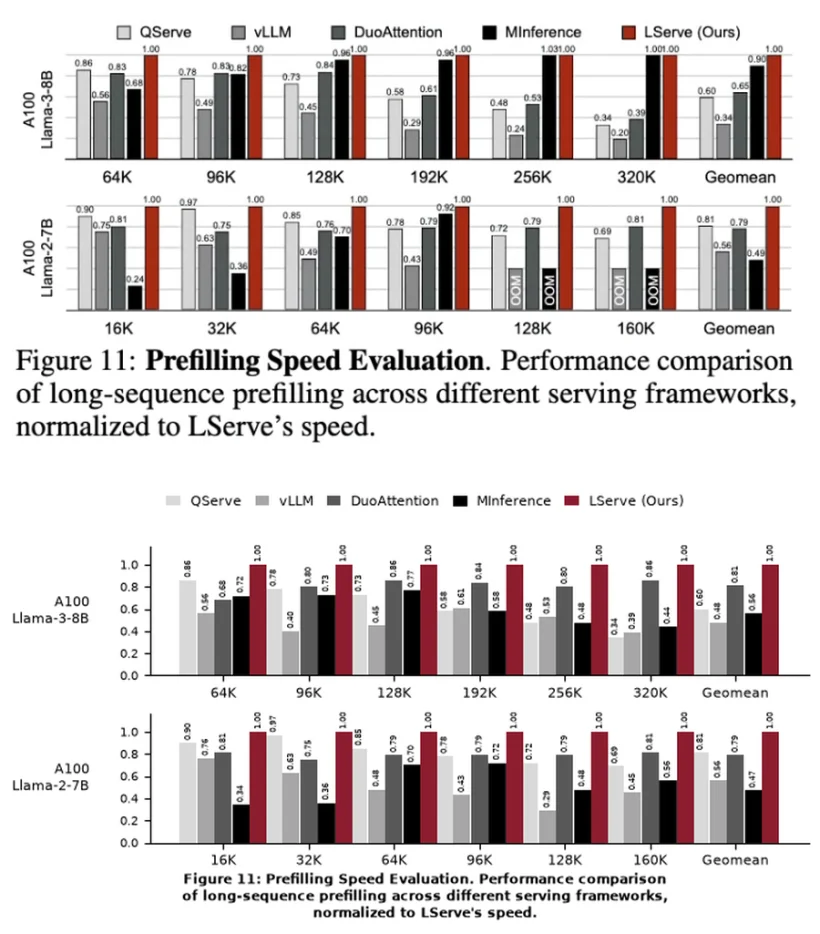
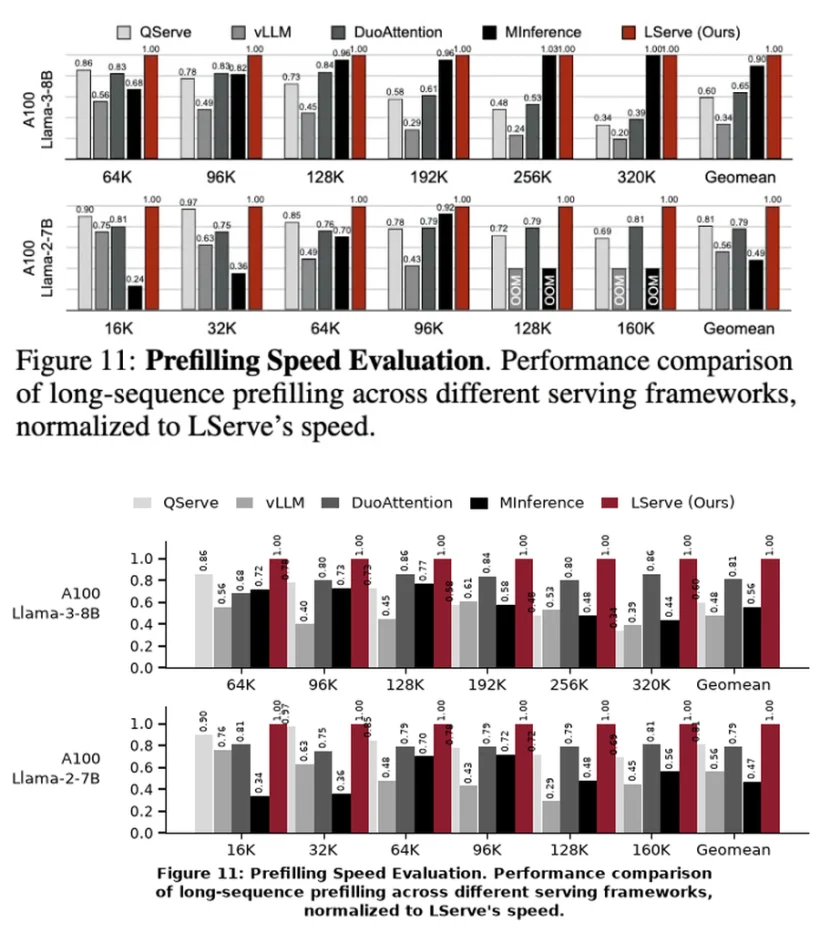
improve(replicas): 第五十三轮 —— 08 柱图加宽 + 布局修正
墨迹 91% → 92%（一度因 hspace 过大掉到 82%，收紧回 0.30 后恢复）

- 柱宽 0.205 → 0.225、比例 0.96 → 0.98
- MInference 柱边框 0.5 → 0.9
- 数值标签 4.9 → 6.0、x 刻度 8 → 9、y 刻度 7 → 8.5
- y 轴标签 8 → 9.5、图例 8 → 9.5、caption 8 → 9.5
- hspace 0.30、bottom 0.21 保证 x 标签不压柱子
- figsize 3.54 → 3.64 保持 AR 1.80

平均墨迹 96%，8/10 在 ±15% 内

diff --git a/tools/figlab/replicas.py b/tools/figlab/replicas.py
@@ -487,7 +487,7 @@ def fig07():
 # ---------------------------------------------------------------- 08 共享图例 + 双行归一化柱
 
 def fig08():
-    fig, axes = plt.subplots(2, 1, figsize=(6.4, 3.54), sharex=False)
+    fig, axes = plt.subplots(2, 1, figsize=(6.4, 3.64), sharex=False)
     methods = ["QServe", "vLLM", "DuoAttention", "MInference", "LServe (Ours)"]
     cols = ["#D9D9D9", "#A6A6A6", "#595959", "#000000", "#8C1D2F"]
     rows = [
@@ -504,34 +504,35 @@ def fig08():
           [0.34, 0.36, 0.70, 0.72, 0.48, 0.56, 0.47],
           [1.00, 1.00, 1.00, 1.00, 1.00, 1.00, 1.00]]),
     ]
-    w = 0.205
+    w = 0.225
     for ax, (ylabel, xt, mat) in zip(axes, rows):
         x = np.arange(len(xt))
         for i, (m, c) in enumerate(zip(methods, cols)):
             off = (i - 2) * w
-            ax.bar(x + off, mat[i], w * 0.96, color=c, edgecolor="black" if c == "#000000" else "none",
-                   linewidth=0.5)
+            ax.bar(x + off, mat[i], w * 0.98, color=c, edgecolor="black" if c == "#000000" else "none",
+                   linewidth=0.9)
             for xi, v in zip(x + off, mat[i]):
                 ax.text(xi, v + 0.022, "%.2f" % v, ha="center", va="bottom",
-                        fontsize=4.9, rotation=90)
-        ax.set_xticks(x, xt, fontsize=8)
+                        fontsize=6.0, rotation=90)
+        ax.set_xticks(x, xt, fontsize=9)
+        ax.tick_params(axis="x", pad=3)
         ax.set_ylim(0, 1.16)
         ax.set_yticks([0, 0.2, 0.4, 0.6, 0.8, 1.0])
-        ax.set_ylabel(ylabel, fontsize=8, rotation=0, ha="right", va="center", labelpad=18)
-        ax.tick_params(axis="y", labelsize=7)
+        ax.set_ylabel(ylabel, fontsize=9.5, rotation=0, ha="right", va="center", labelpad=18)
+        ax.tick_params(axis="y", labelsize=8.5, length=4, width=1.2)
         for sp in ("top", "right"):
             ax.spines[sp].set_visible(False)
 
     handles = [Rectangle((0, 0), 1, 1, fc=c, ec="black" if c == "#000000" else "none",
                          lw=0.6) for c in cols]
     fig.legend(handles, methods, loc="upper center", bbox_to_anchor=(0.5, 1.03),
-               ncol=5, frameon=False, fontsize=8, handlelength=1.0, columnspacing=1.0)
+               ncol=5, frameon=False, fontsize=9.5, handlelength=1.1, columnspacing=1.1)
     fig.text(0.5, 0.005,
              "Figure 11: Prefilling Speed Evaluation. Performance comparison\n"
              "of long-sequence prefilling across different serving frameworks,\n"
              "normalized to LServe's speed.",
-             ha="center", va="bottom", fontsize=8.0, fontweight="bold")
-    fig.subplots_adjust(top=0.88, bottom=0.19, left=0.145, right=0.995, hspace=0.30)
+             ha="center", va="bottom", fontsize=9.5, fontweight="bold")
+    fig.subplots_adjust(top=0.89, bottom=0.21, left=0.145, right=0.995, hspace=0.30)
     return _save(fig, "rep-08-shared-legend")
 
 
